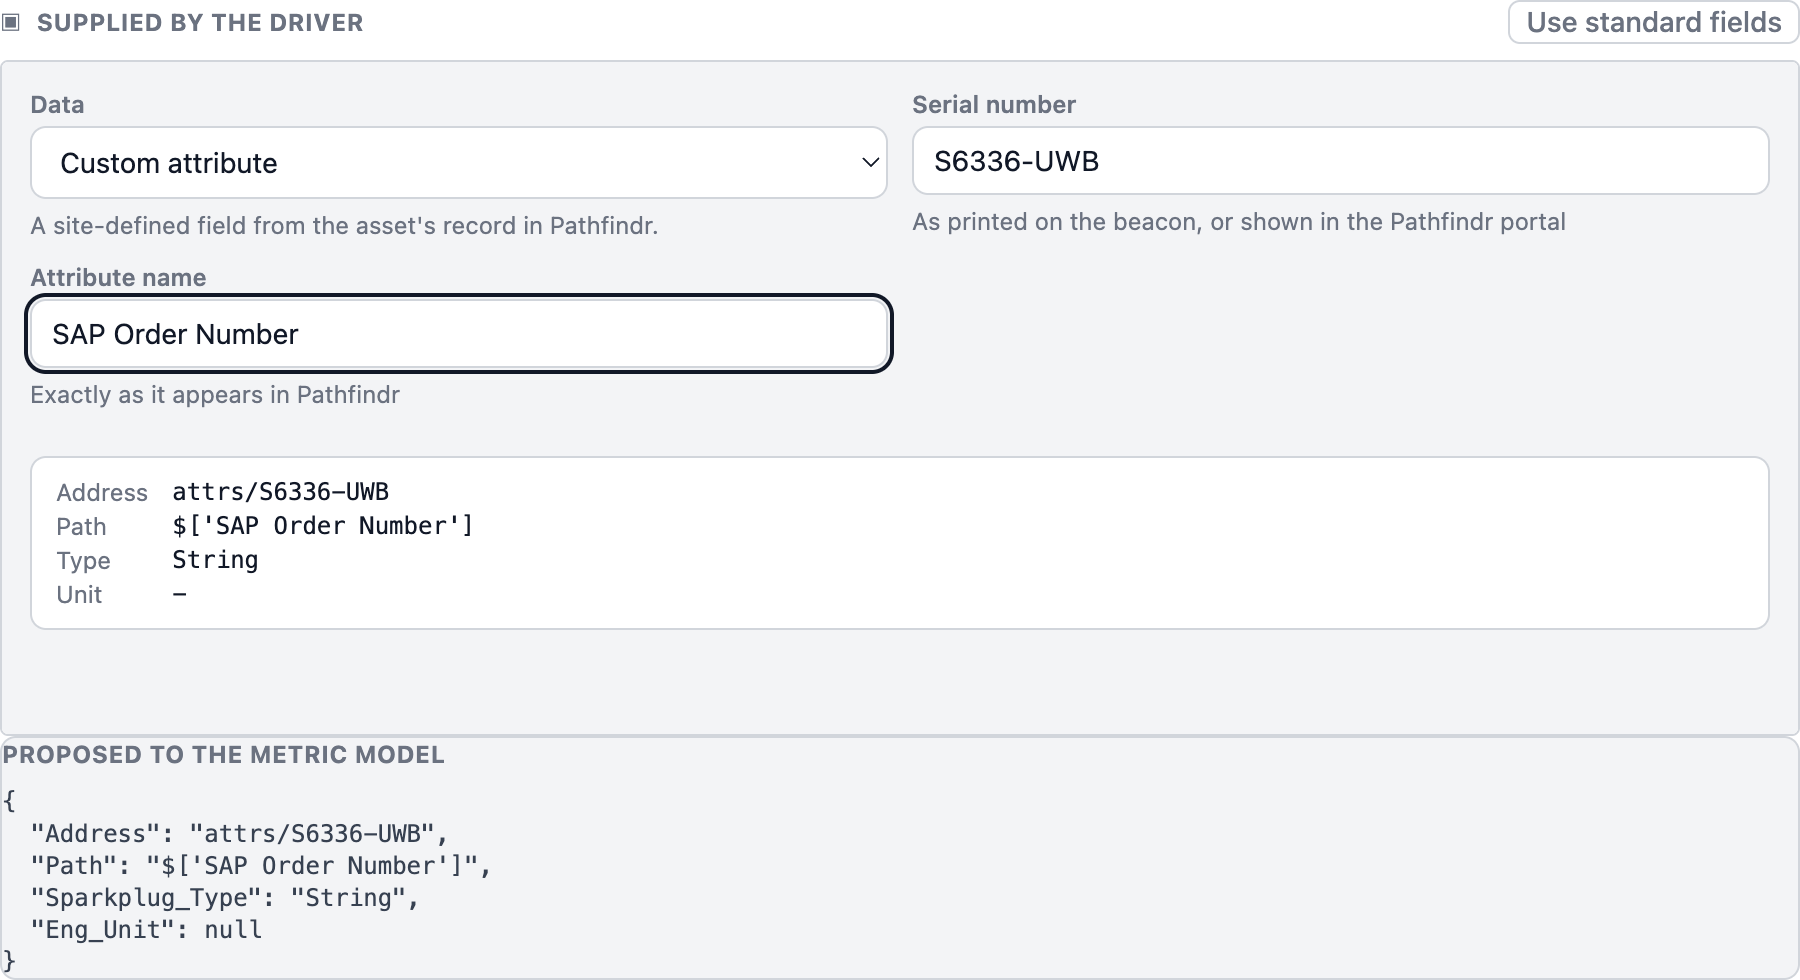
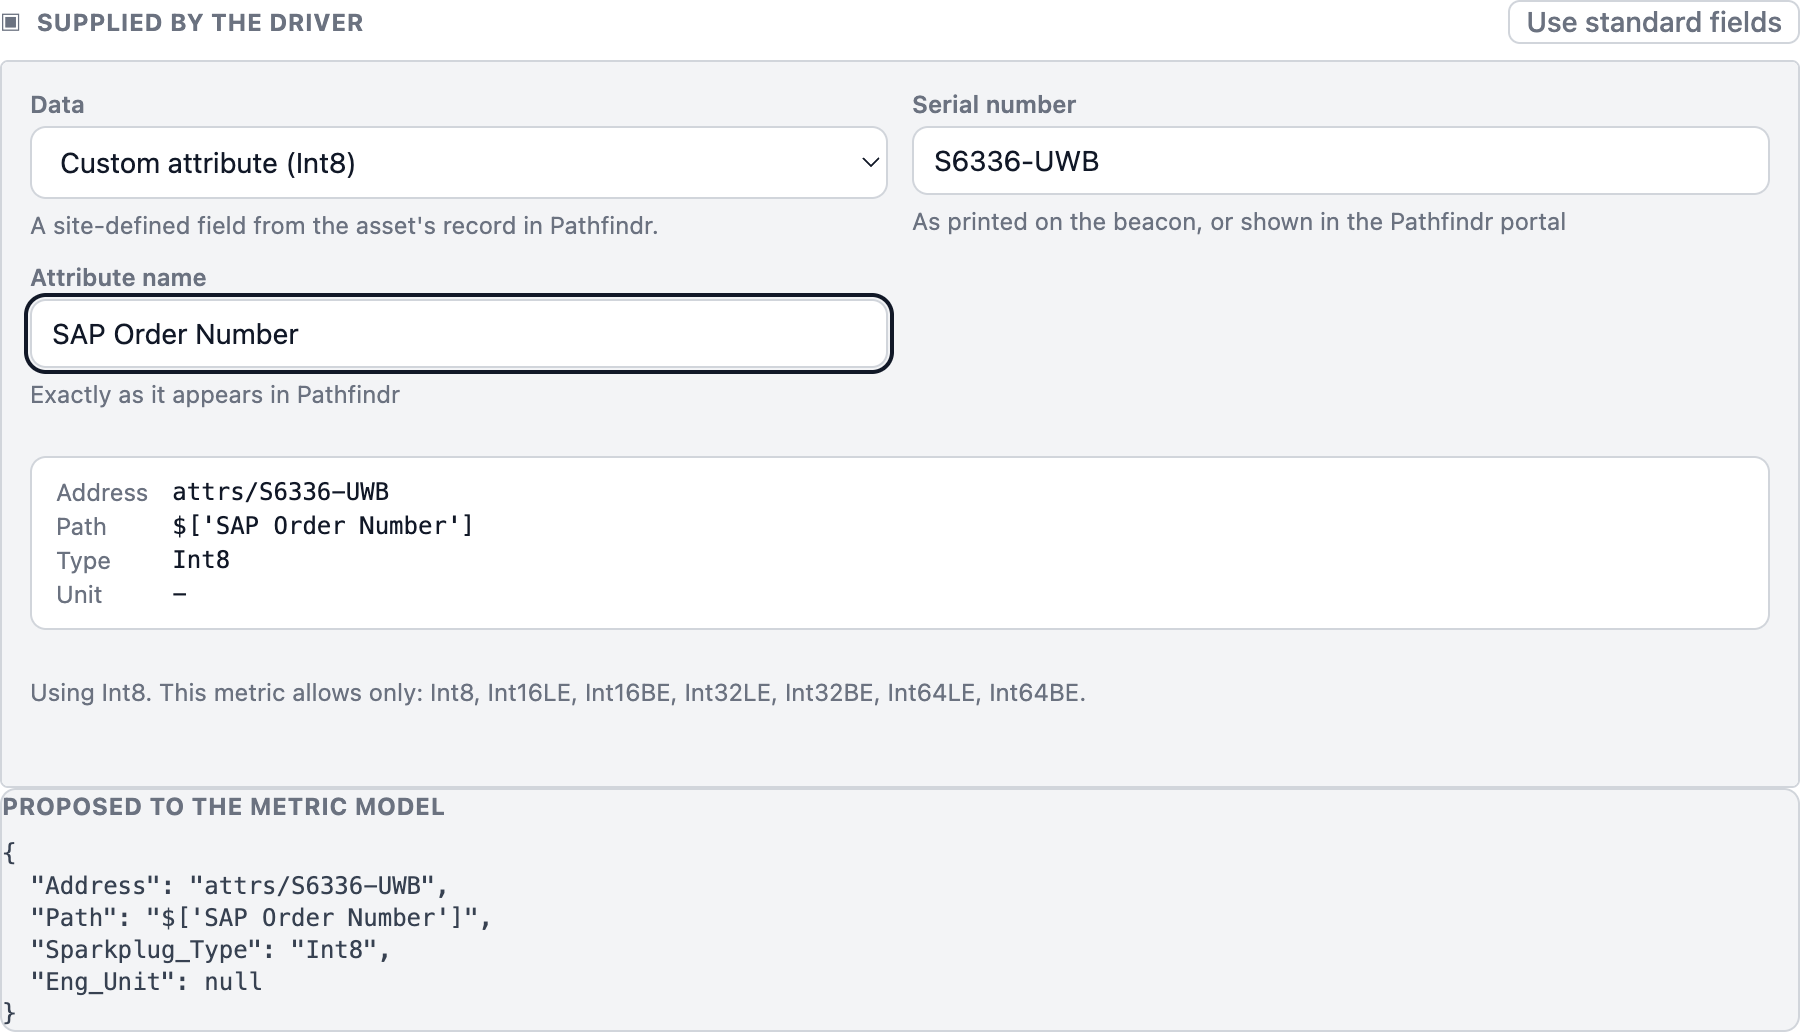
admin: make driver UI proposals actually persist (#721)
Everything a driver UI proposed was silently discarded. The panel filled
in correctly, the save reported "Origin Map updated successfully", and
the saved config contained no `address` or `path` at all:

```json
{
  "Name": ".../Temperature/Temperature",
  "docs": "The temperature measured by the sensor",
  "type": "FloatLE",
  "method": "GET",
  "recordToDB": true
}        <- no address, no path
```

Reopening the metric showed an empty serial field, because the panel
restores itself from an `Address` that was never written.

## Cause

The origin map editor identifies a metric **by object identity**. It
hands `SparkplugMetric` a reference to the model inside its own tree,
and its handler ignores the emitted value:

```js
metricDetailsEdited (val) {
  this.markDirty('Metric edited')      // val unused
}
```

So the only change that survives a save is a *mutation of that object*.
My code did:

```js
this.localModel = apply_proposal(this.localModel, values)   // returns a NEW object
```

The values landed in a detached copy while the editor kept the original.
`markDirty` still fired, which is why the save reported success over an
unchanged map.

## Fix

`apply_proposal` now mutates in place, and the doc comment explains why
so nobody "fixes" it back into a pure function. The test that pinned the
old copying behaviour is replaced by one asserting the same object is
returned and mutated — leaving that test as it was would have actively
invited the regression.
[…]

diff --git a/acs-admin/test/driver-ui-contract.test.js b/acs-admin/test/driver-ui-contract.test.js
@@ -318,22 +318,35 @@ describe('validate_proposal', () => {
 })
 
 describe('apply_proposal', () => {
-  it('merges values onto the model without mutating it', () => {
+  it('mutates the model in place rather than returning a copy', () => {
+    /* Load-bearing. The origin map editor holds the metric by reference and
+     * its @input handler ignores the emitted value, so only a mutation of
+     * that same object survives a save. An earlier version returned a new
+     * object and every proposed value was silently discarded. */
     const model = { Address: 'old', Sparkplug_Type: 'String' }
     const out = apply_proposal(model, { Address: 'new' })
 
-    expect(out).toEqual({ Address: 'new', Sparkplug_Type: 'String' })
-    expect(model.Address).toEqual('old')
+    expect(model.Address).toEqual('new')
+    expect(out).toBe(model)
+  })
+
+  it('keeps fields it was not asked to change', () => {
+    const model = { Address: 'old', Sparkplug_Type: 'String' }
+    apply_proposal(model, { Address: 'new' })
+    expect(model.Sparkplug_Type).toEqual('String')
   })
 
   it('removes keys proposed as null', () => {
-    const out = apply_proposal({ Address: 'a', Path: '$.x' }, { Path: null })
-    expect(out).toEqual({ Address: 'a' })
-    expect('Path' in out).toBe(false)
+    const model = { Address: 'a', Path: '$.x' }
+    apply_proposal(model, { Path: null })
+    expect(model).toEqual({ Address: 'a' })
+    expect('Path' in model).toBe(false)
   })
 
   it('tolerates empty input', () => {
-    expect(apply_proposal(null, null)).toEqual({})
-    expect(apply_proposal({ a: 1 }, {})).toEqual({ a: 1 })
+    expect(apply_proposal(null, null)).toBeNull()
+    const model = { a: 1 }
+    expect(apply_proposal(model, {})).toBe(model)
+    expect(model).toEqual({ a: 1 })
   })
 })

diff --git a/acs-admin/src/lib/driver-ui/contract.js b/acs-admin/src/lib/driver-ui/contract.js
@@ -293,23 +293,32 @@ export function validate_proposal (values, { allowed_types } = {}) {
 }
 
 /**
- * Apply a validated proposal onto a metric model.
+ * Apply a validated proposal onto a metric model, in place.
  *
- * Returns a new object rather than mutating, so a rejected proposal leaves
- * the caller's model untouched. Keys proposed as null are removed, matching
- * how the editor treats cleared fields.
+ * Mutating rather than returning a copy is deliberate and load-bearing. The
+ * origin map editor identifies a metric by object identity: SparkplugMetric
+ * is handed a reference to the model inside the editor's own tree, and the
+ * editor's `@input` handler ignores its argument entirely and merely marks
+ * the form dirty. Replacing the reference therefore writes into a detached
+ * object, the save reports success, and nothing changes.
  *
- * @param {object} model The current metric model.
+ * That is not a theoretical hazard. The first version of this returned a new
+ * object, and every value a driver UI proposed was silently discarded.
+ *
+ * Keys proposed as null are removed, matching how the editor treats cleared
+ * fields.
+ *
+ * @param {object} model The metric model, mutated.
  * @param {object} values Validated values from `validate_proposal`.
- * @returns {object} The updated model.
+ * @returns {object} The same model, for convenience.
  */
 export function apply_proposal (model, values) {
-  const out = { ...(model ?? {}) }
+  if (model == null) return model
   for (const [key, value] of Object.entries(values ?? {})) {
     if (value === null)
-      delete out[key]
+      delete model[key]
     else
-      out[key] = value
+      model[key] = value
   }
-  return out
+  return model
 }

diff --git a/acs-admin/src/components/EdgeManager/Devices/OriginMapEditor/SparkplugMetric.vue b/acs-admin/src/components/EdgeManager/Devices/OriginMapEditor/SparkplugMetric.vue
@@ -477,8 +477,14 @@ export default {
      * validated against the allowlist and the metric schema by the host
      * component; this only merges them into the model, which keeps the
      * existing localModel watcher as the single path to $emit('input'). */
+    /* Note the absence of an assignment. localModel is a reference to the
+     * model inside the editor's own tree, and the editor's @input handler
+     * ignores its argument and just marks the form dirty, so the only thing
+     * that actually persists is a mutation of that object. apply_proposal
+     * mutates for exactly this reason; reassigning here would write into a
+     * detached copy and the save would silently do nothing. */
     on_driver_propose (values) {
-      this.localModel = apply_proposal(this.localModel, values)
+      apply_proposal(this.localModel, values)
     },
 
     /* The document failed to load or never answered its init message. Fall

diff --git a/edge-pathfindr/ui/metric-panel.html b/edge-pathfindr/ui/metric-panel.html
@@ -52,7 +52,10 @@
     overflow-wrap: anywhere;
   }
   .warn { grid-column: 1 / -1; color: #b91c1c; font-size: 12px; }
-  .note { grid-column: 1 / -1; color: #92400e; font-size: 12px; }
+  /* Muted, not amber. This is information, not a problem: a type was
+     chosen and the metric works. Sitting next to the red .warn, any
+     warm colour reads as a second error. */
+  .note { grid-column: 1 / -1; color: var(--muted); font-size: 12px; }
   .hidden { display: none; }
 </style>
 </head>
